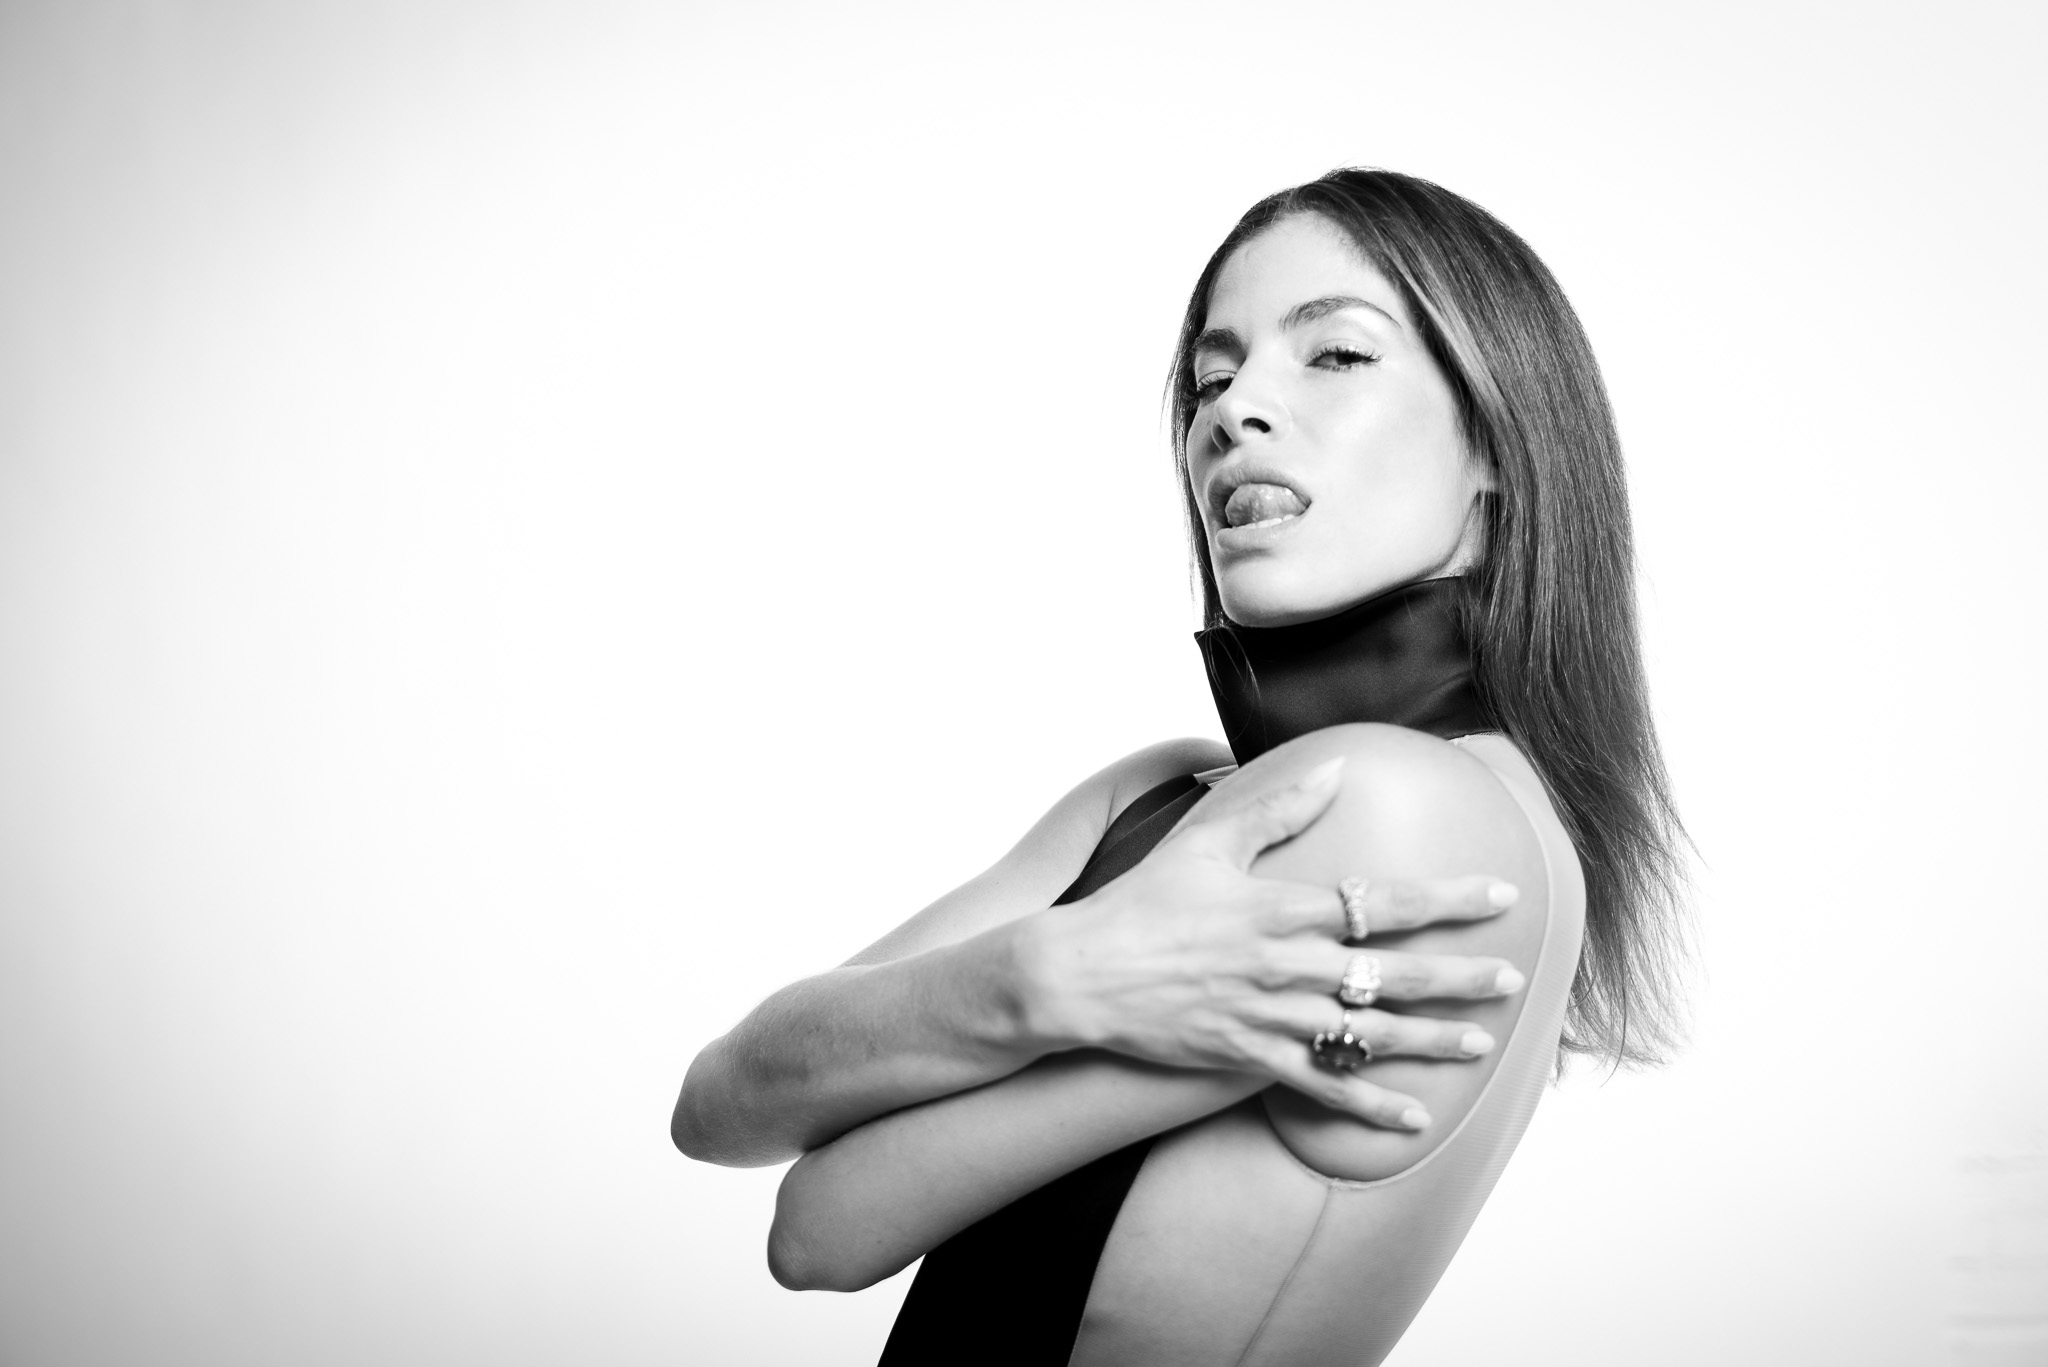
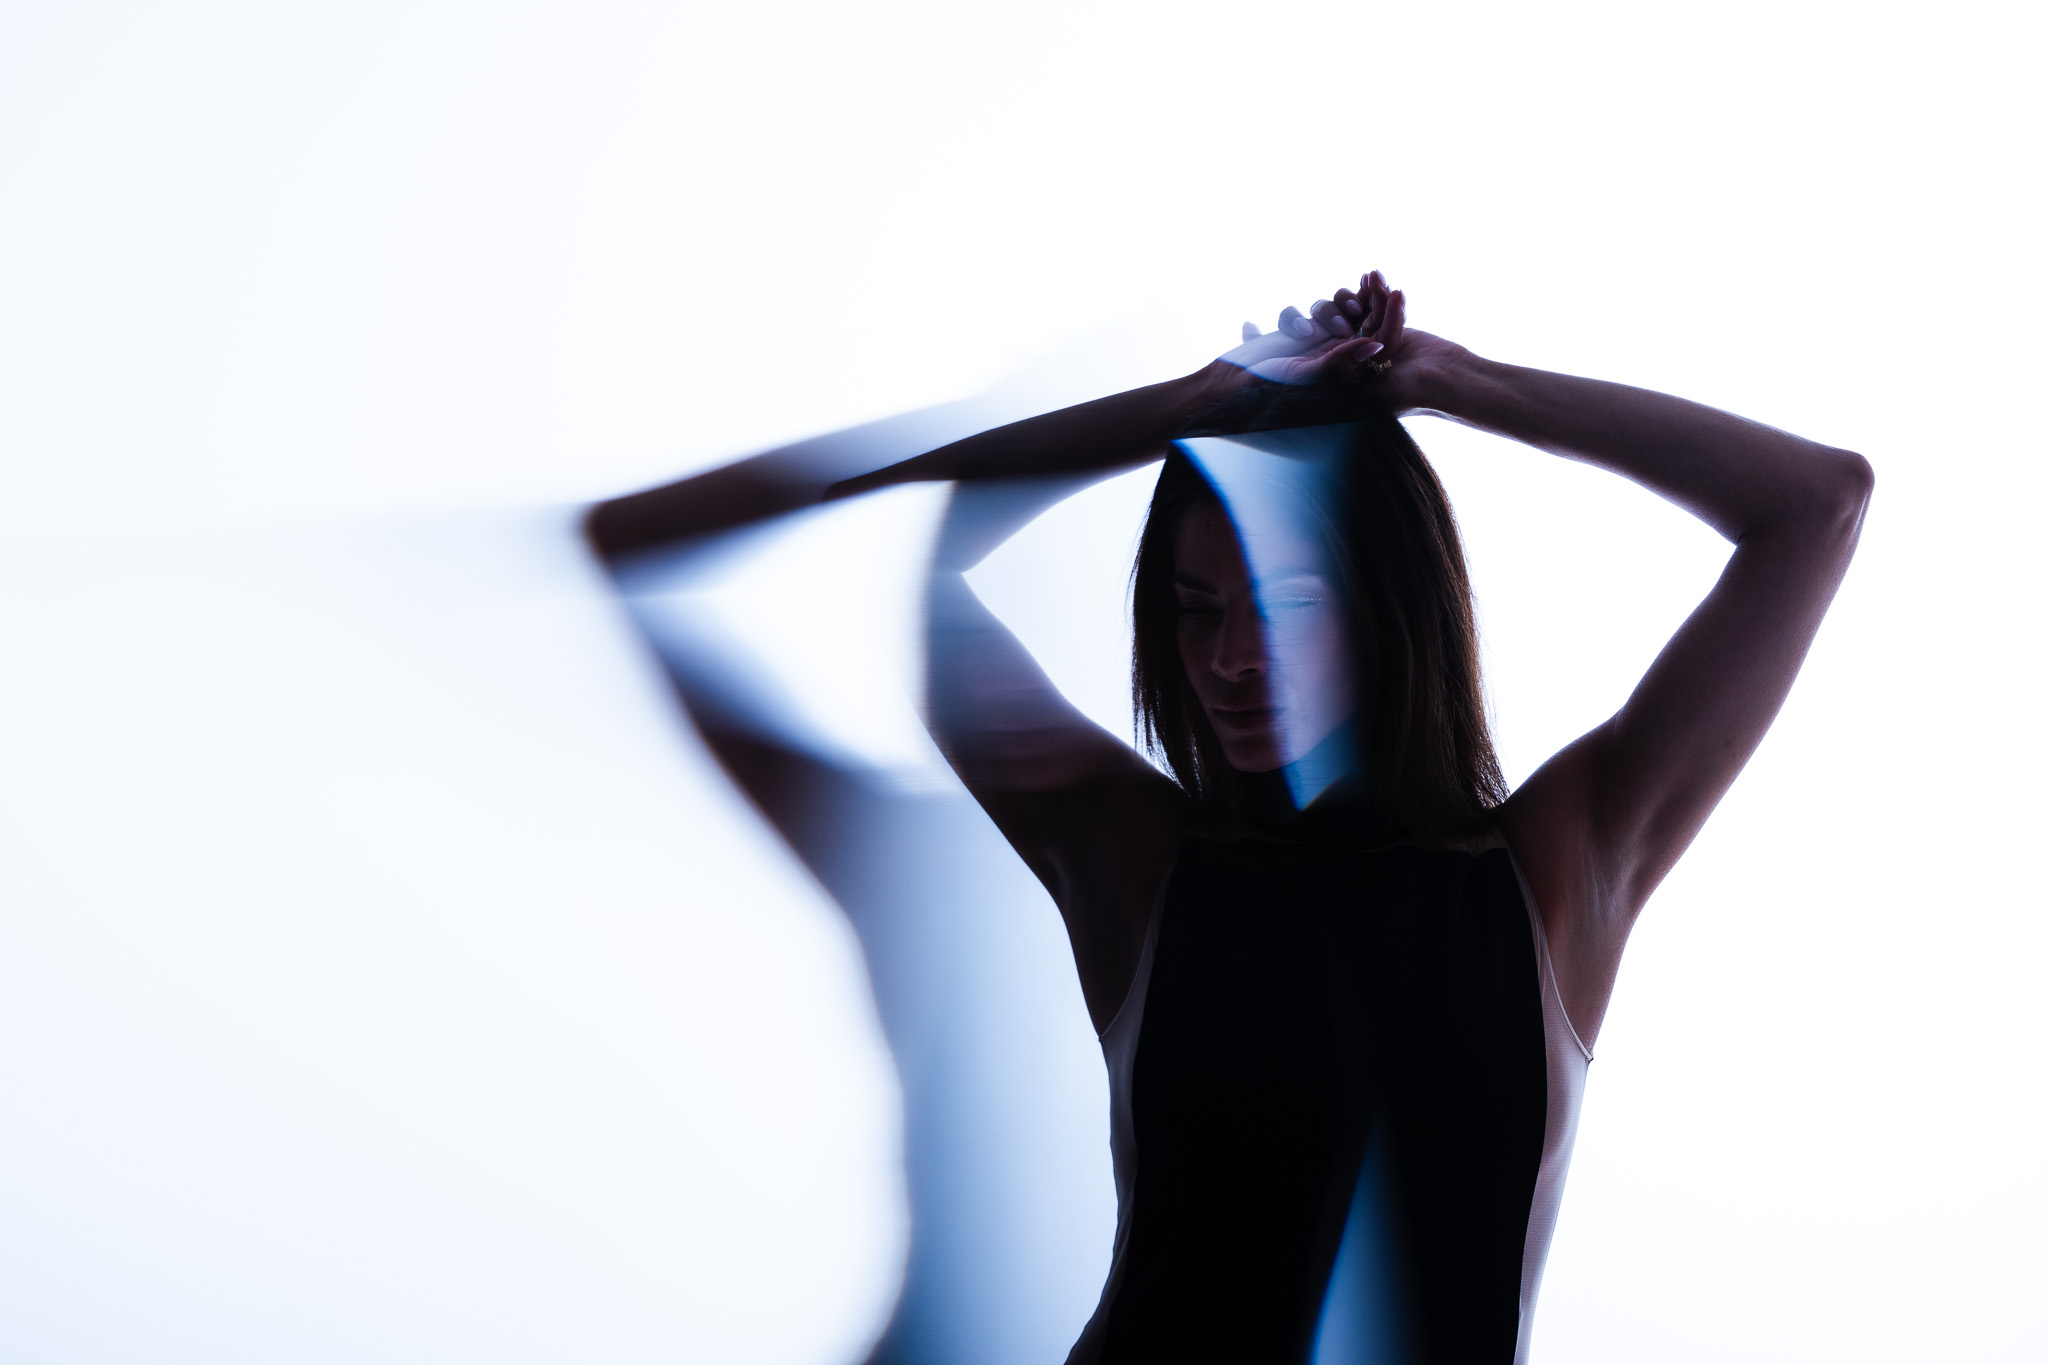
Expand Laura Degreef portrait series to 17 photos with new cover
Adds a black & white studio chapter (14 photos) after the existing
color portraits, ordered to flow from bold color into the cohesive
b&w story and close on a dynamic motion-blur trio. New dedicated cover.

diff --git a/src/data/portfolio.ts b/src/data/portfolio.ts
@@ -66,6 +66,20 @@ import portraitLauraDegreefCover from "@/images/portfolio/portrait/laura-degreef
 import portraitLauraDegreef01 from "@/images/portfolio/portrait/laura-degreef/01.jpg";
 import portraitLauraDegreef02 from "@/images/portfolio/portrait/laura-degreef/02.jpg";
 import portraitLauraDegreef03 from "@/images/portfolio/portrait/laura-degreef/03.jpg";
+import portraitLauraDegreef04 from "@/images/portfolio/portrait/laura-degreef/04.jpg";
+import portraitLauraDegreef05 from "@/images/portfolio/portrait/laura-degreef/05.jpg";
+import portraitLauraDegreef06 from "@/images/portfolio/portrait/laura-degreef/06.jpg";
+import portraitLauraDegreef07 from "@/images/portfolio/portrait/laura-degreef/07.jpg";
+import portraitLauraDegreef08 from "@/images/portfolio/portrait/laura-degreef/08.jpg";
+import portraitLauraDegreef09 from "@/images/portfolio/portrait/laura-degreef/09.jpg";
+import portraitLauraDegreef10 from "@/images/portfolio/portrait/laura-degreef/10.jpg";
+import portraitLauraDegreef11 from "@/images/portfolio/portrait/laura-degreef/11.jpg";
+import portraitLauraDegreef12 from "@/images/portfolio/portrait/laura-degreef/12.jpg";
+import portraitLauraDegreef13 from "@/images/portfolio/portrait/laura-degreef/13.jpg";
+import portraitLauraDegreef14 from "@/images/portfolio/portrait/laura-degreef/14.jpg";
+import portraitLauraDegreef15 from "@/images/portfolio/portrait/laura-degreef/15.jpg";
+import portraitLauraDegreef16 from "@/images/portfolio/portrait/laura-degreef/16.jpg";
+import portraitLauraDegreef17 from "@/images/portfolio/portrait/laura-degreef/17.jpg";
 import portraitWolfgangCover from "@/images/portfolio/portrait/wolfgang/cover.jpg";
 import portraitWolfgang01 from "@/images/portfolio/portrait/wolfgang/01.jpg";
 import portraitWolfgang02 from "@/images/portfolio/portrait/wolfgang/02.jpg";
@@ -278,6 +292,11 @@ export const categories: CategoryData[] = [
         cover: portraitLauraDegreefCover,
         images: [
           portraitLauraDegreef01, portraitLauraDegreef02, portraitLauraDegreef03,
+          portraitLauraDegreef04, portraitLauraDegreef05, portraitLauraDegreef06,
+          portraitLauraDegreef07, portraitLauraDegreef08, portraitLauraDegreef09,
+          portraitLauraDegreef10, portraitLauraDegreef11, portraitLauraDegreef12,
+          portraitLauraDegreef13, portraitLauraDegreef14, portraitLauraDegreef15,
+          portraitLauraDegreef16, portraitLauraDegreef17,
         ],
       },
       {
